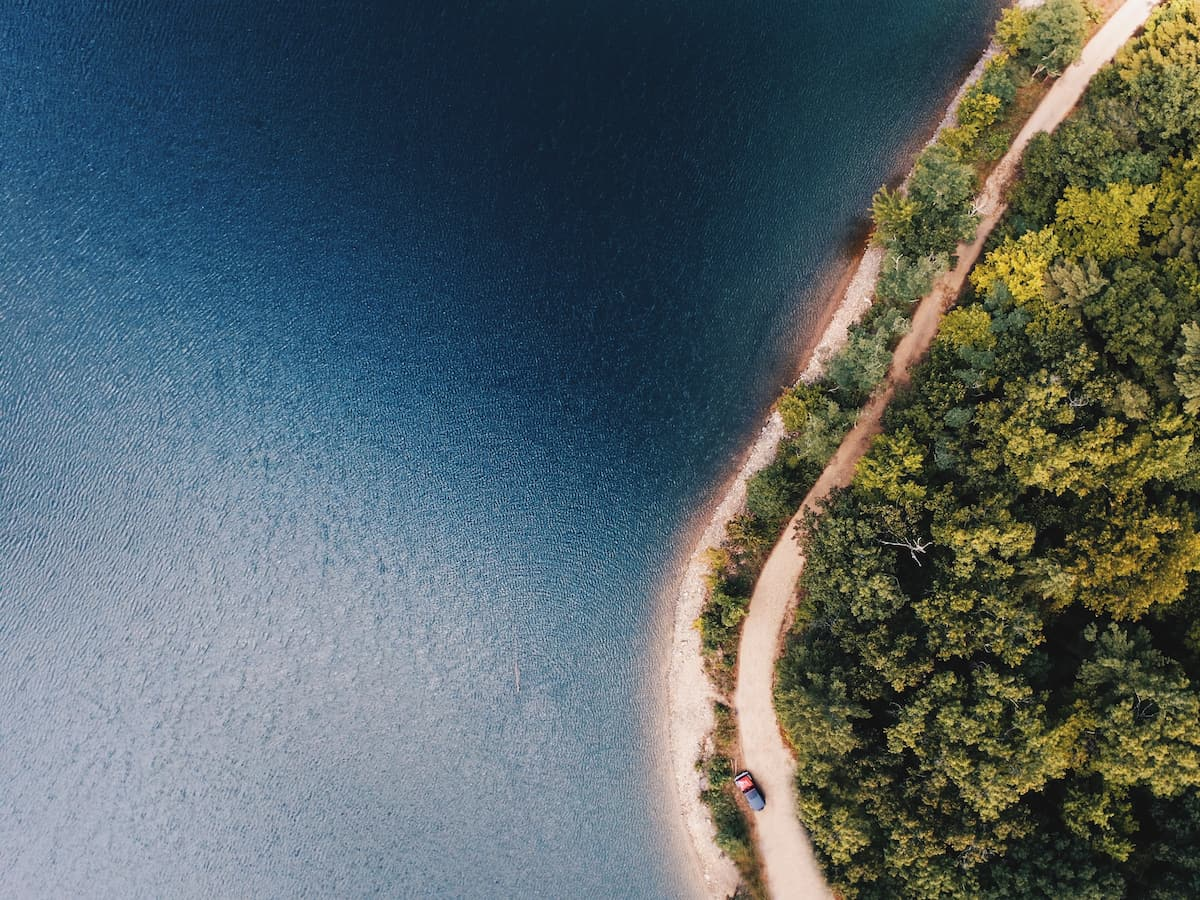
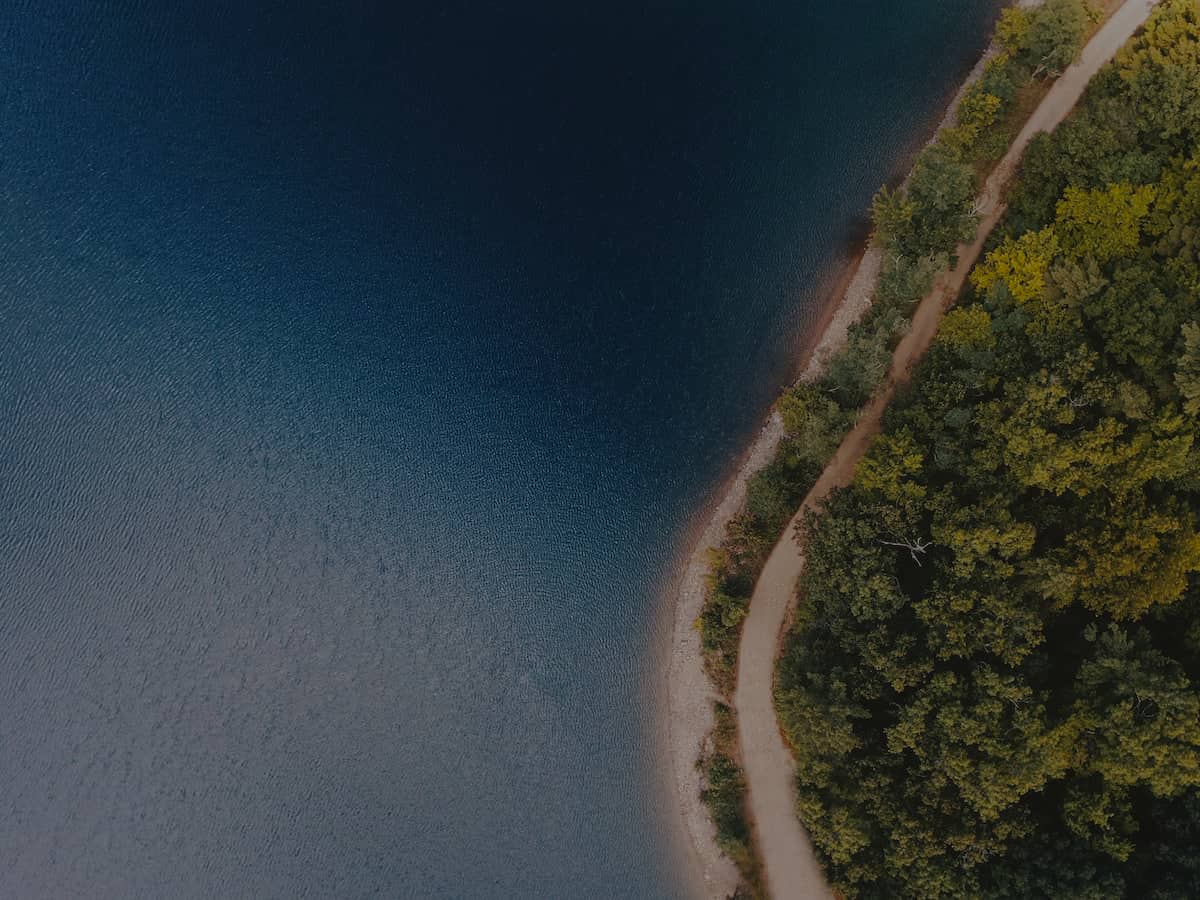
Reduced size of background image

diff --git a/src/views/HomeView.vue b/src/views/HomeView.vue
@@ -89,7 +89,7 @@ onMounted(async () => {
             <div class="overflow-hidden bg-none relative">
                 <img
                     src="/seashore.jpg"
-                    class="w-full h-full _bg-[url('/seashore.jpg')] object-cover absolute brightness-75"
+                    class="w-full h-full _bg-[url('/seashore.jpg')] object-cover absolute"
                 >
                 <wavy-divider class="absolute -left-1 bottom-0" />
                 <div class="px-4 sm:px-12 pt-12 md:pb-4 pb-32">

diff --git a/src/views/SupportView.vue b/src/views/SupportView.vue
@@ -68,7 +68,7 @@ const onCloseError = () => {
     </AlertModal>
     <div class="relative isolate bg-gray-900">
         <img src="/seashore.jpg"
-             class="w-full h-full _bg-[url('/seashore.jpg')] object-cover absolute brightness-50">
+             class="w-full h-full _bg-[url('/seashore.jpg')] object-cover absolute">
         <wavy-divider class="absolute -left-1 bottom-0" />
         <div class="px-4 sm:px-12 pt-12">
             <!-- Logos -->
